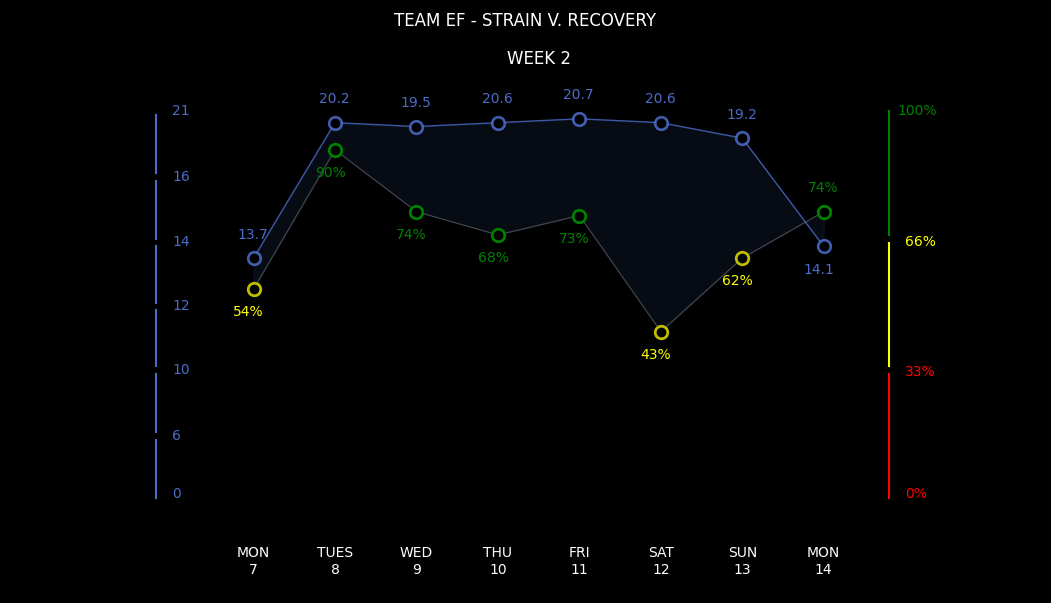
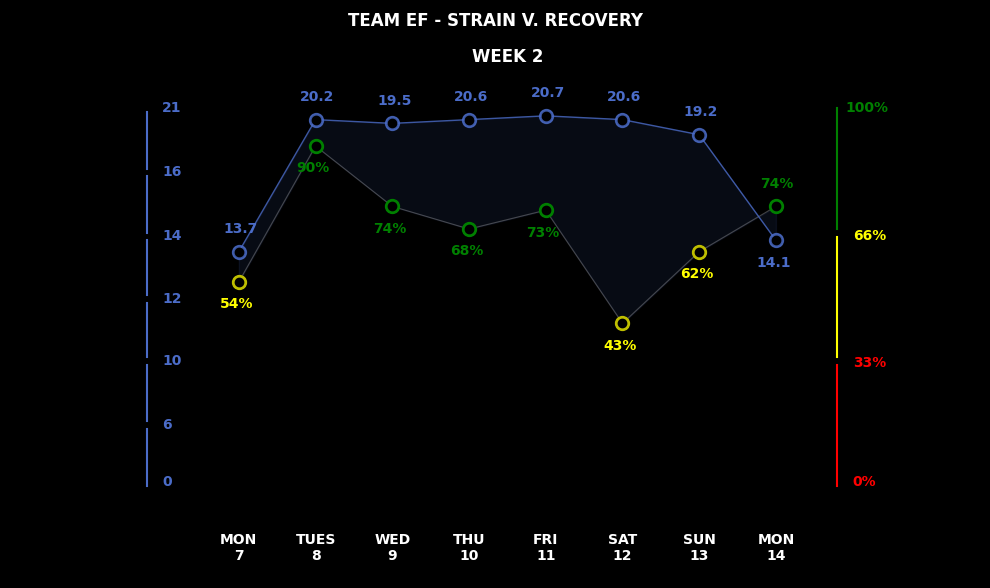
bolded text on plot

diff --git a/Strain v. Recovery/strain_recovery_python.py b/Strain v. Recovery/strain_recovery_python.py
@@ -35,10 +35,10 @@ ax.plot([14.8, 14.8], [.34, .66], color="yellow", markersize=3)
 ax.plot([14.8, 14.8], [.68, 1], color="green", markersize=3)
 
 # Creates the tick labels of the right y-axis
-plt.annotate("0%", (15, 0), color="red")
-plt.annotate("33%", (15, .315), color="red")
-plt.annotate("66%", (15, .65), color="yellow")
-plt.annotate("100%", (14.9, .99), color="green")
+plt.annotate("0%", (15, 0), color="red", weight="bold")
+plt.annotate("33%", (15, .315), color="red", weight="bold")
+plt.annotate("66%", (15, .65), color="yellow", weight="bold")
+plt.annotate("100%", (14.9, .99), color="green", weight="bold")
 
 # Creates the left y-axis
 ax.plot([5.8, 5.8], [0, .15], color="#4b6cc8")
@@ -49,13 +49,13 @@ ax.plot([5.8, 5.8], [.67, .82], color="#4b6cc8")
 ax.plot([5.8, 5.8], [.84, .99], color="#4b6cc8")
 
 # Creates the tick labels of the left y-axis
-plt.annotate(0, (6, 0), color="#4b6cc8")
-plt.annotate(6, (6, .15), color="#4b6cc8")
-plt.annotate(10, (6, .32), color="#4b6cc8")
-plt.annotate(12, (6, .485), color="#4b6cc8")
-plt.annotate(14, (6, .65), color="#4b6cc8")
-plt.annotate(16, (6, .82), color="#4b6cc8")
-plt.annotate(21, (6, .99), color="#4b6cc8")
+plt.annotate(0, (6, 0), color="#4b6cc8", weight="bold")
+plt.annotate(6, (6, .15), color="#4b6cc8", weight="bold")
+plt.annotate(10, (6, .32), color="#4b6cc8", weight="bold")
+plt.annotate(12, (6, .485), color="#4b6cc8", weight="bold")
+plt.annotate(14, (6, .65), color="#4b6cc8", weight="bold")
+plt.annotate(16, (6, .82), color="#4b6cc8", weight="bold")
+plt.annotate(21, (6, .99), color="#4b6cc8", weight="bold")
 
 # Removes the box that surrounds the plot (pre-set axes)
 ax.spines["right"].set_color("black")
@@ -75,23 +75,23 @@ ax.get_yaxis().set_visible(False)
 
 # Sets the x-axis labels
 plt.xticks((7, 8, 9, 10, 11, 12, 13, 14), ("MON\n7", "TUES\n8", "WED\n9", "THU\n10",
-                                           "FRI\n11", "SAT\n12", "SUN\n13", "MON\n14"))
+                                           "FRI\n11", "SAT\n12", "SUN\n13", "MON\n14"), fontweight="bold")
 
 # Labels all but the last set of points on the plot (all but "MON 14" points)
 for i in range(0, 7):
-    plt.annotate(strain[i], (x[i] - 0.2, strain_loc[i] + 0.05), color="#4b6cc8")
+    plt.annotate(strain[i], (x[i] - 0.2, strain_loc[i] + 0.05), color="#4b6cc8", weight="bold")
     if recovery[i] > 0.66:
-        plt.annotate("{:.0%}".format(recovery[i]), (x[i] - 0.25, recovery[i] - 0.07), color="green")
+        plt.annotate("{:.0%}".format(recovery[i]), (x[i] - 0.25, recovery[i] - 0.07), color="green", weight="bold")
     else:
-        plt.annotate("{:.0%}".format(recovery[i]), (x[i] - 0.25, recovery[i] - 0.07), color="yellow")
+        plt.annotate("{:.0%}".format(recovery[i]), (x[i] - 0.25, recovery[i] - 0.07), color="yellow", weight="bold")
 
 # Labels the last points ("MON 14")
-plt.annotate(strain[7], (x[7] - 0.25, strain_loc[7] - 0.07), color="#4b6cc8")
-plt.annotate("{:.0%}".format(recovery[7]), (x[7] - 0.2, recovery[7] + 0.05), color="green")
+plt.annotate(strain[7], (x[7] - 0.25, strain_loc[7] - 0.07), color="#4b6cc8", weight="bold")
+plt.annotate("{:.0%}".format(recovery[7]), (x[7] - 0.2, recovery[7] + 0.05), color="green", weight="bold")
 
 # Sets title and supplementary title
-plt.title("WEEK 2")
-plt.suptitle("TEAM EF - STRAIN V. RECOVERY")
+plt.title("WEEK 2", fontweight="bold")
+plt.suptitle("TEAM EF - STRAIN V. RECOVERY", fontweight="bold")
 
 # Prints the plot!
 plt.show()
